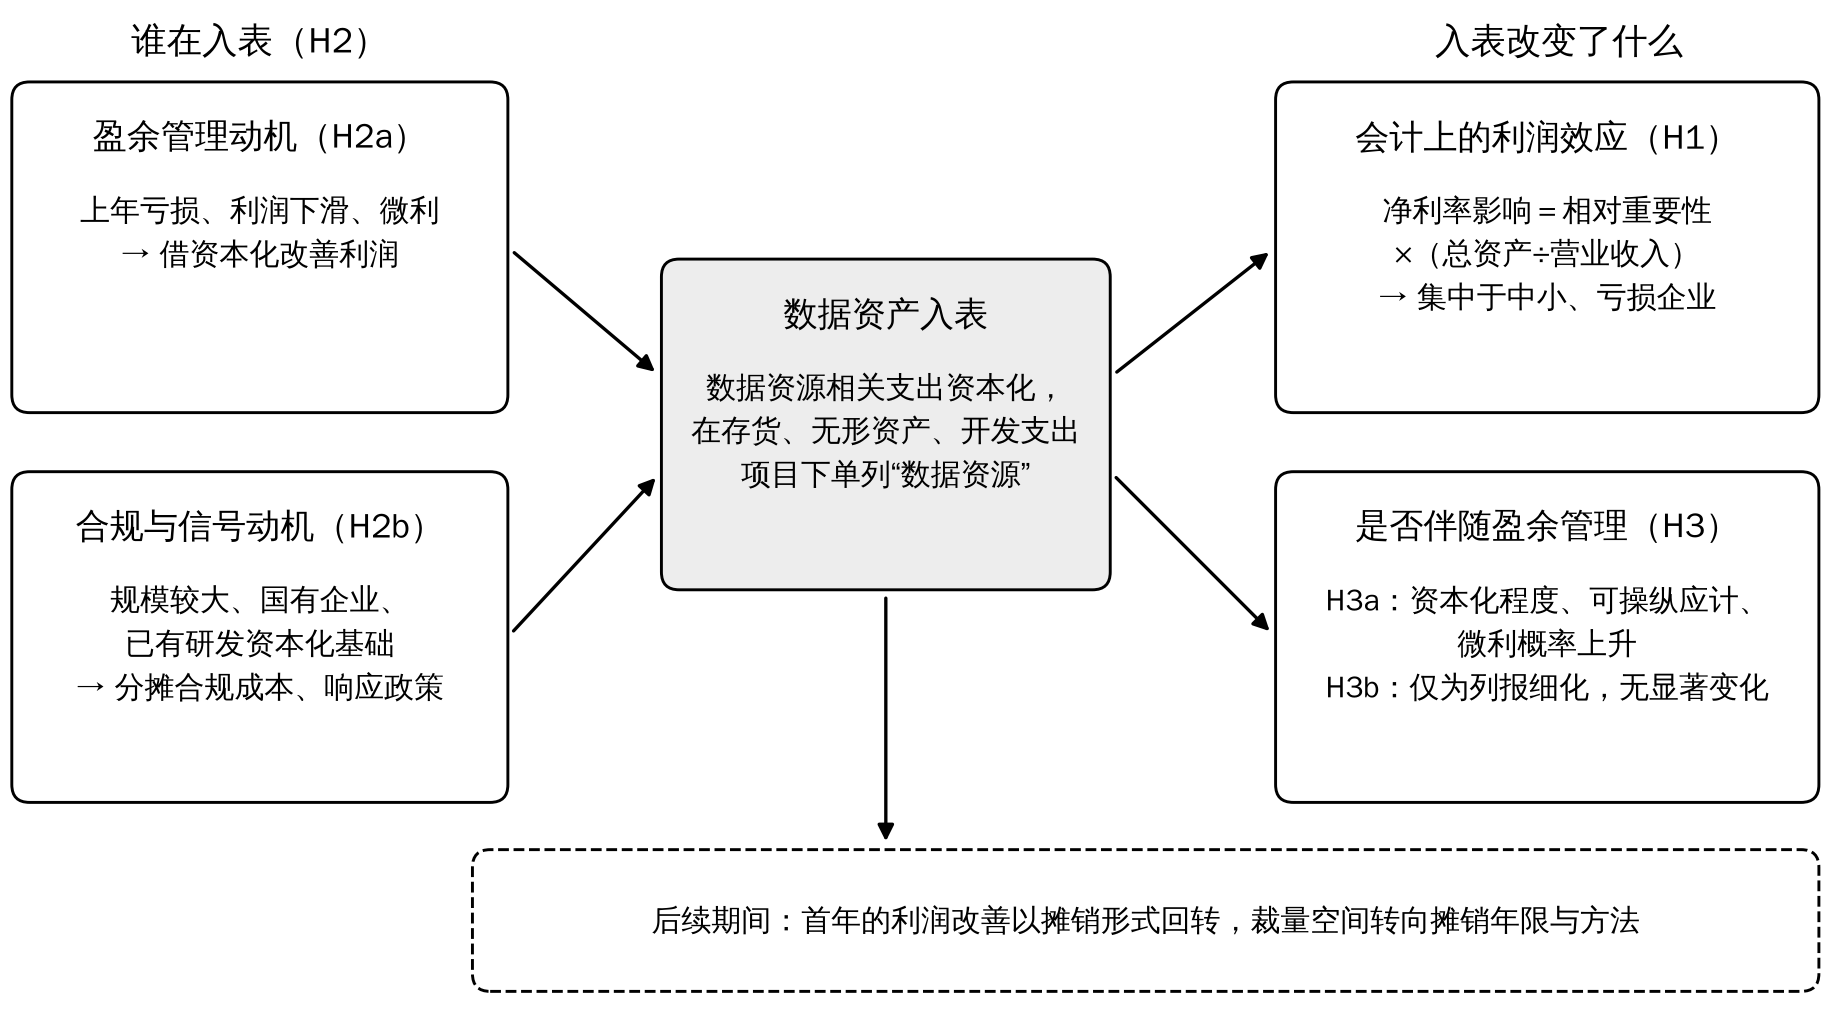
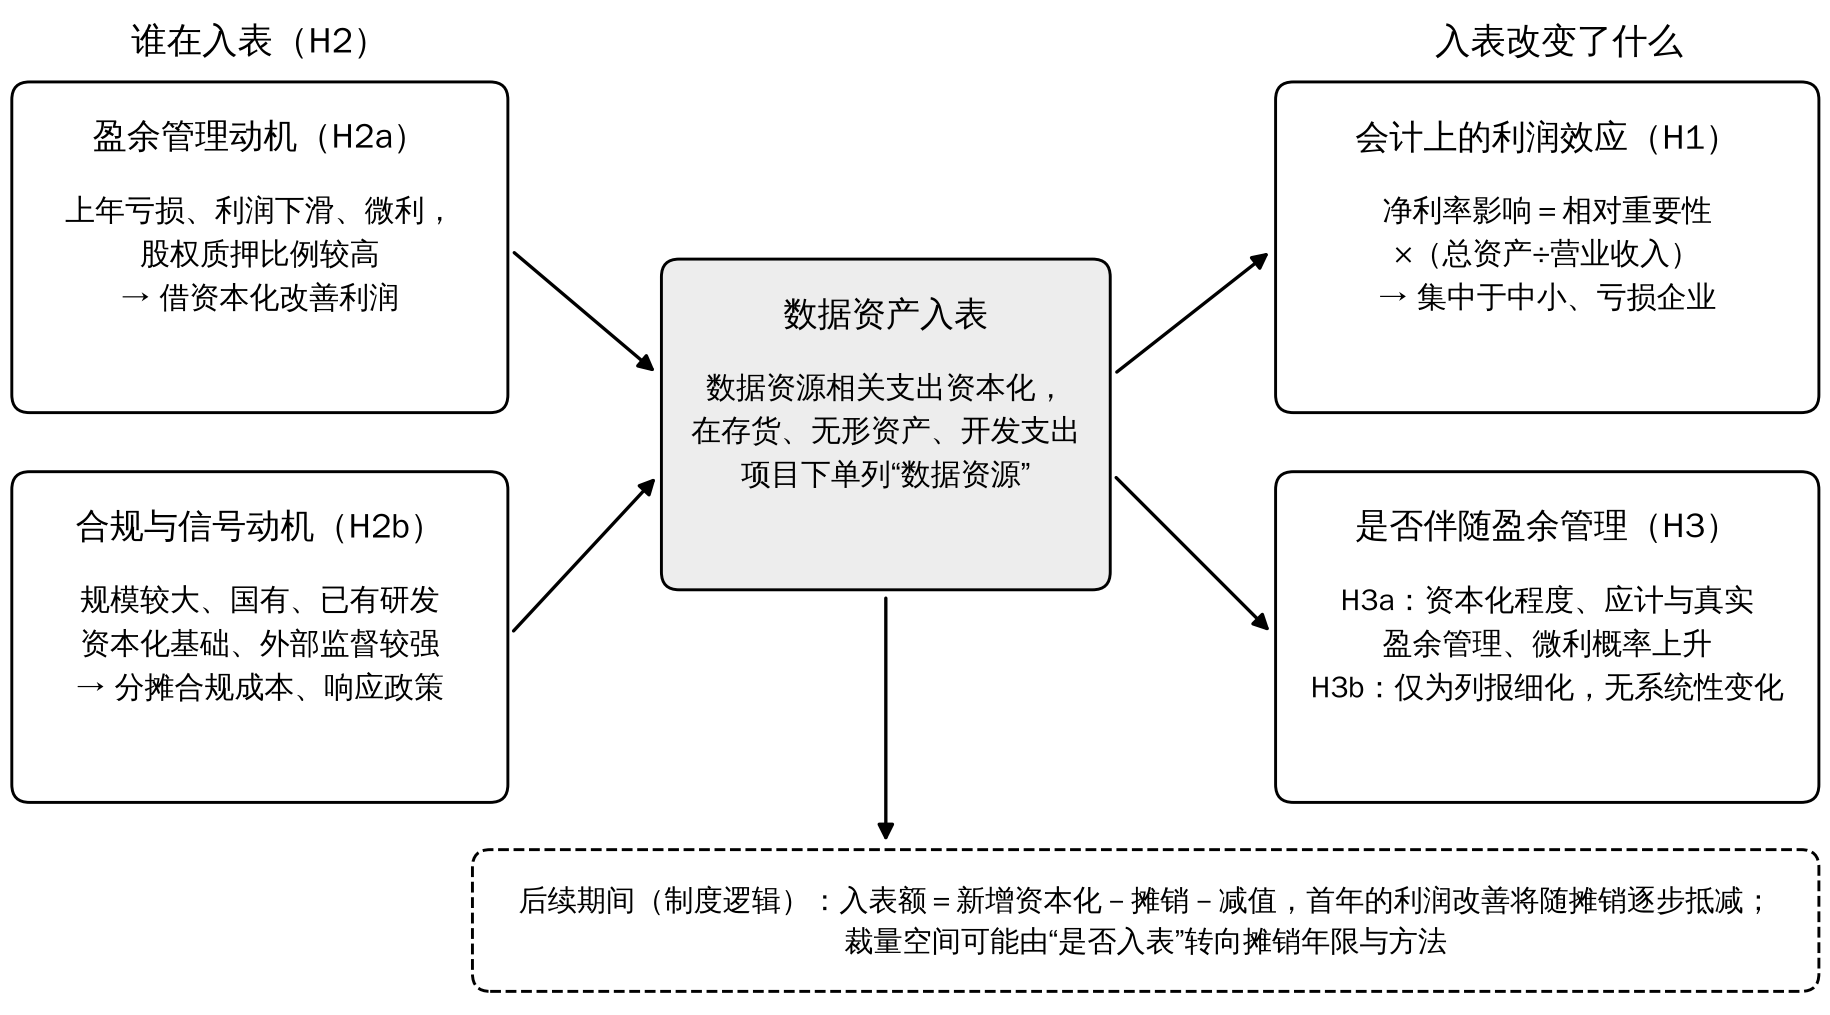
Figure 1: label the follow-up box as institutional logic
Mark the bottom box as the institutional logic of capitalization and
amortization rather than an observed reversal, and describe H3b as no
systematic change.

Claude-Session: https://claude.ai/code/session_01CL8KqzogdQiQK8kdTj7AuN

diff --git a/annual-report-scraper/analysis/fig1.py b/annual-report-scraper/analysis/fig1.py
@@ -34,10 +34,10 @@ arrow(43, 51, 56, 40); arrow(43, 18, 56, 32)
 # 右：后果
 ax.text(132, 70, "入表改变了什么", ha="center", va="top", fontsize=8.5, weight="bold")
 box(108, 37, 46, 28, "会计上的利润效应（H1）", ["净利率影响＝相对重要性", "×（总资产÷营业收入）", "→ 集中于中小、亏损企业"])
-box(108, 4, 46, 28, "是否伴随盈余管理（H3）", ["H3a：资本化程度、应计与真实", "盈余管理、微利概率上升", "H3b：仅为列报细化，无显著变化"])
+box(108, 4, 46, 28, "是否伴随盈余管理（H3）", ["H3a：资本化程度、应计与真实", "盈余管理、微利概率上升", "H3b：仅为列报细化，无系统性变化"])
 arrow(94, 40, 108, 51); arrow(94, 32, 108, 18)
 # 下：跨期回转与摊销裁量（进一步分析）
 ax.add_patch(FancyBboxPatch((40, -12), 114, 12, boxstyle="round,pad=0,rounding_size=1.5", fc="white", ec="black", lw=0.7, ls="--"))
-ax.text(97, -6, "后续期间：入表额＝新增资本化－摊销－减值，首年的利润改善以摊销形式回转；\n裁量空间由“是否入表”转向摊销年限与方法", ha="center", va="center", fontsize=7.0, linespacing=1.4)
+ax.text(97, -6, "后续期间（制度逻辑）：入表额＝新增资本化－摊销－减值，首年的利润改善将随摊销逐步抵减；\n裁量空间可能由“是否入表”转向摊销年限与方法", ha="center", va="center", fontsize=7.0, linespacing=1.4)
 arrow(75, 22, 75, 0)
 fig.savefig(sys.argv[1], dpi=300)
